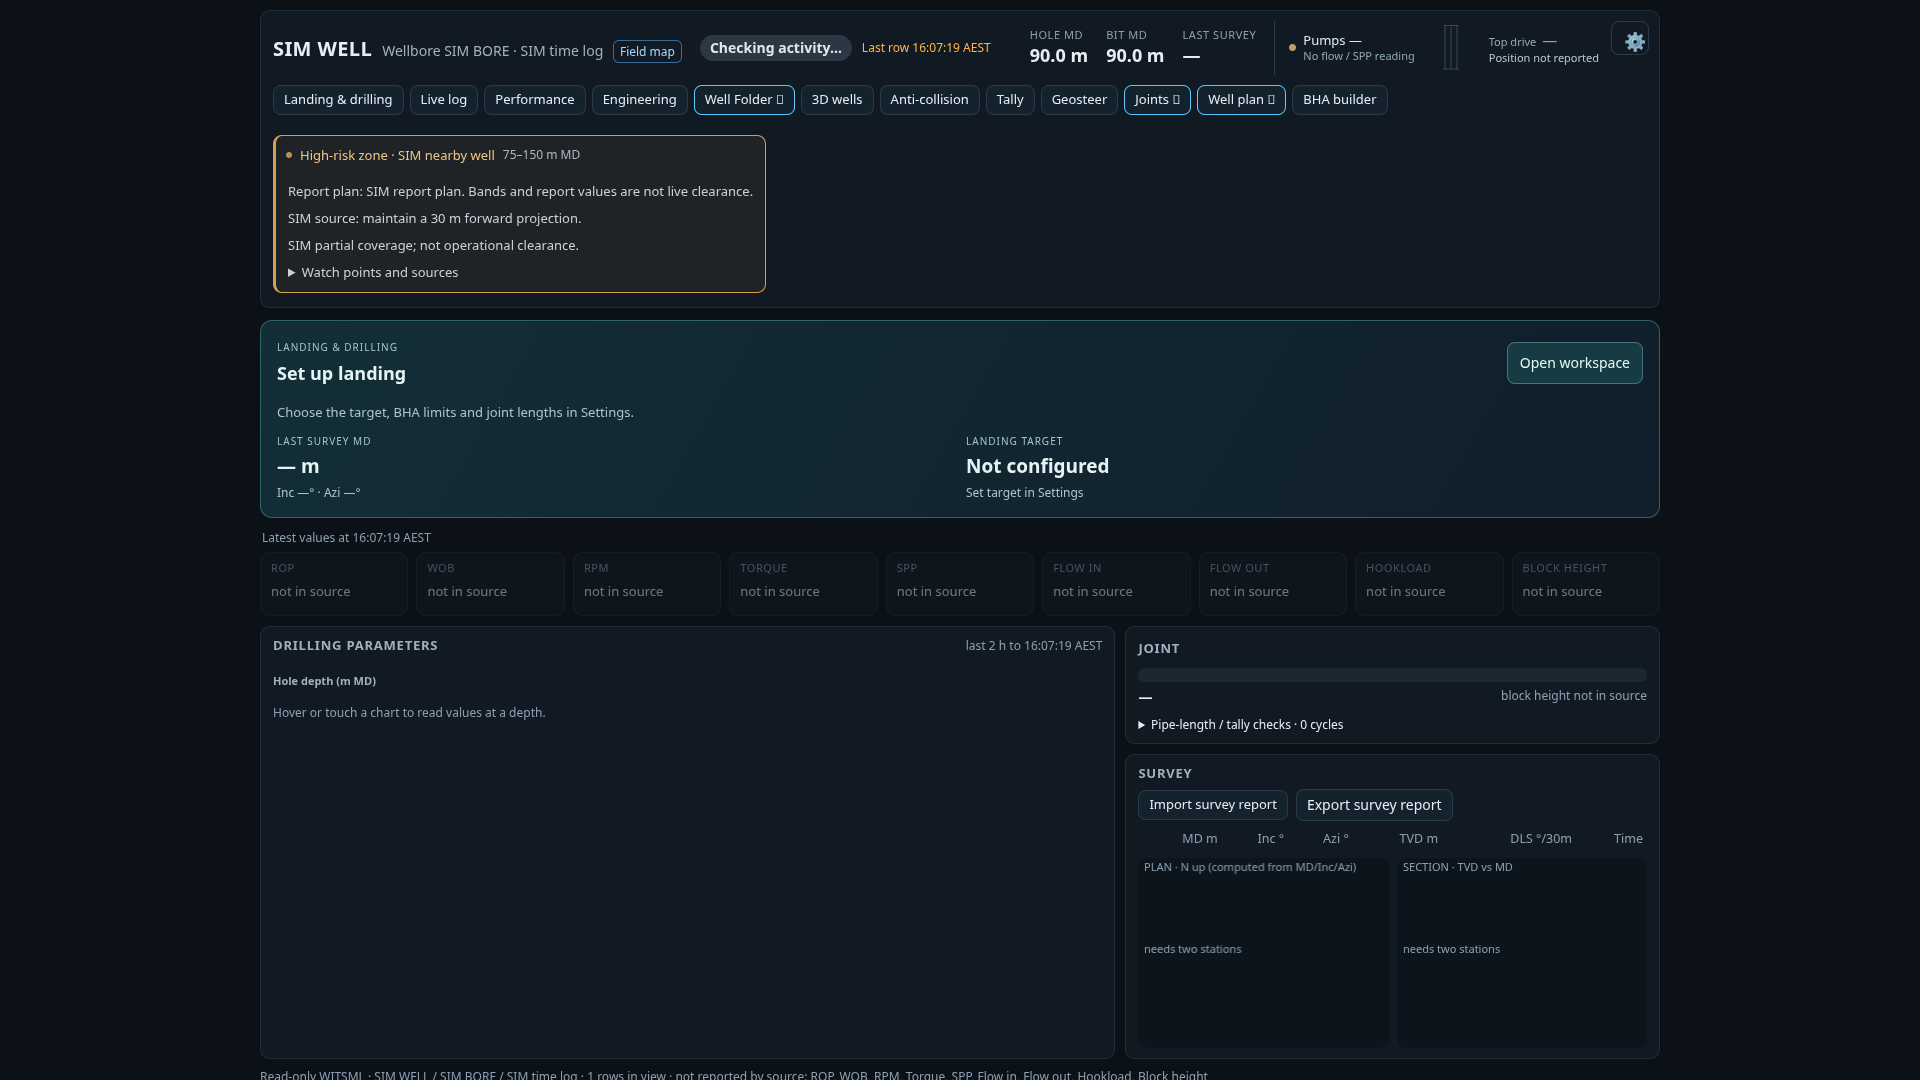
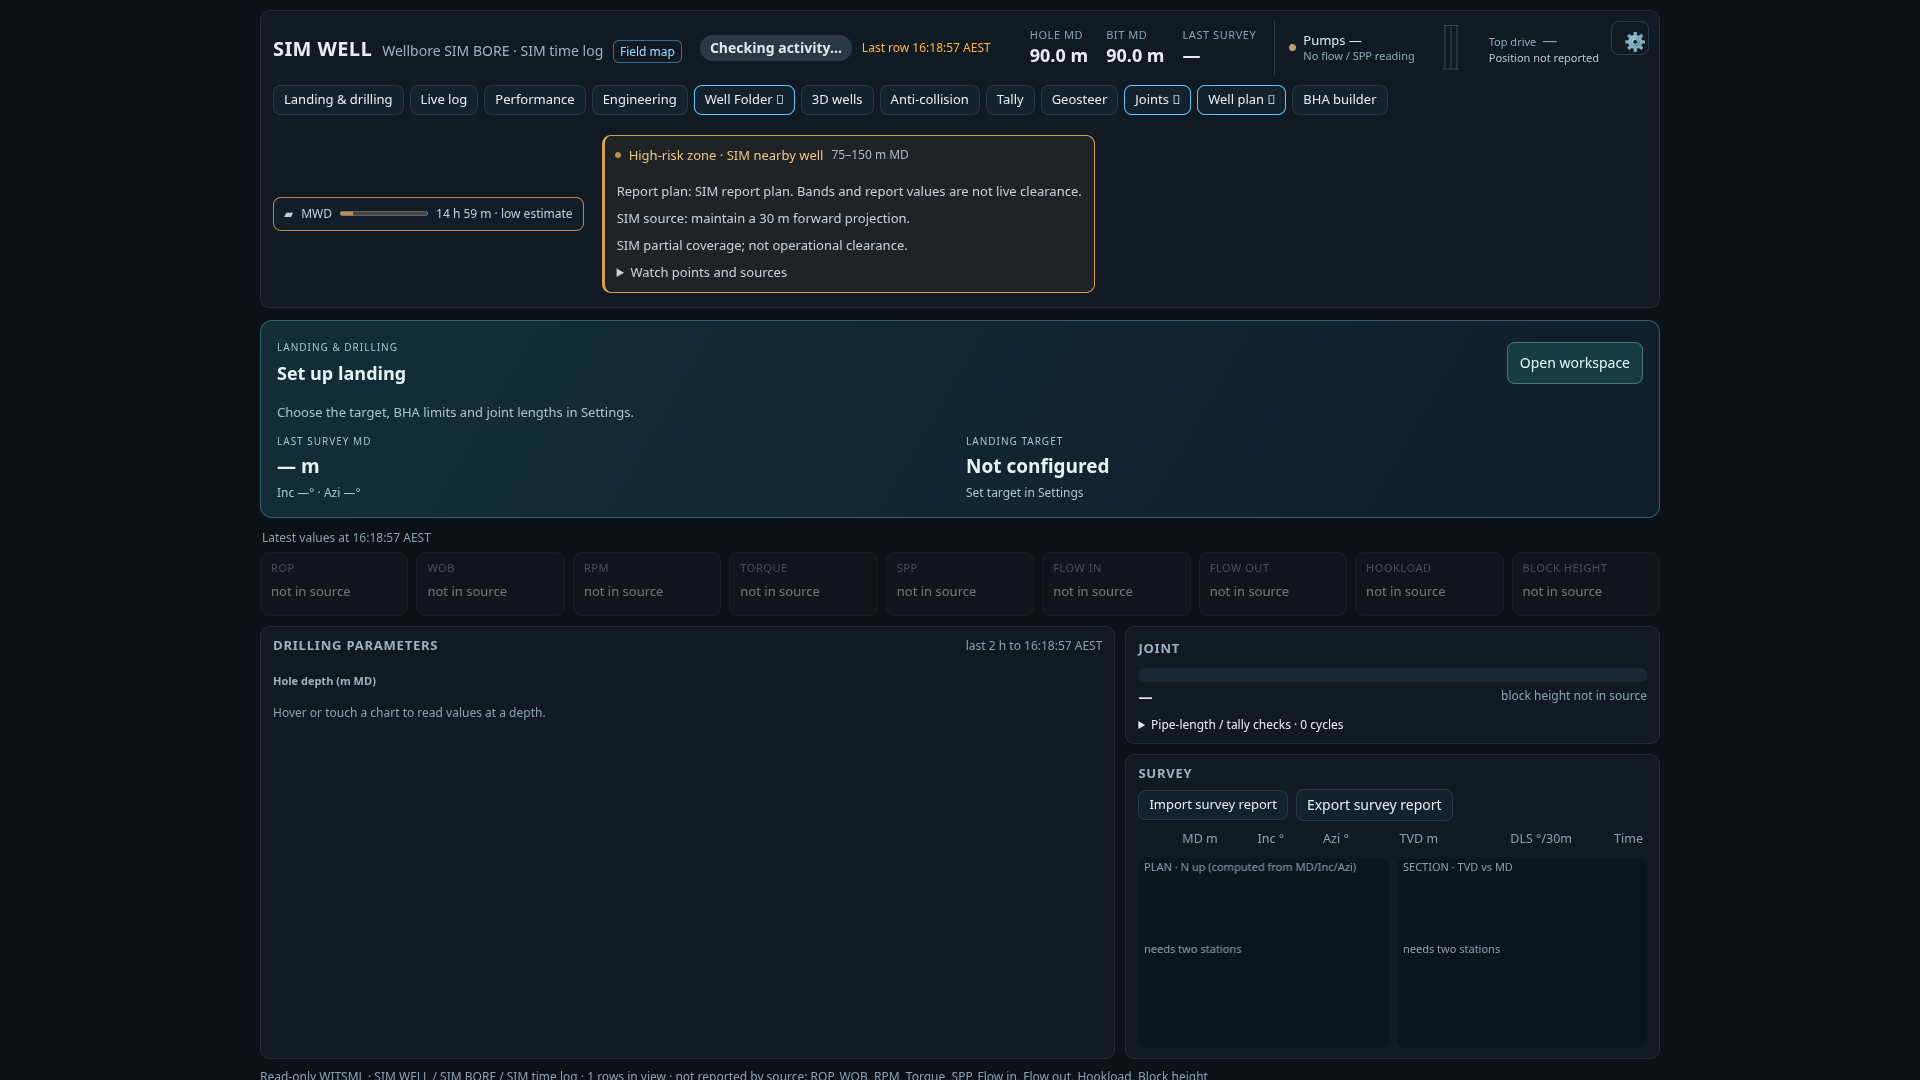
Show a persistent MWD battery budget bar in Operations

Changed region(s): [[0.125, 0.1222, 0.5625, 0.275]]

diff --git a/drilling/opsnow_watch_zones.css b/drilling/opsnow_watch_zones.css
@@ -1,1 +1,3 @@
 .on-watch-zones{margin:10px 0 4px;border:1px solid #bd903b55;border-left:3px solid #b9934e;border-radius:9px;background:#b9934e09;color:#c7d2dc;font-size:13px;line-height:1.45}.on-watch-zones>summary{display:flex;align-items:center;gap:8px;padding:10px;cursor:pointer;list-style:none;flex-wrap:wrap}.on-watch-zones>summary::-webkit-details-marker{display:none}.on-watch-dot{width:6px;height:6px;flex:0 0 6px;border-radius:50%;background:#b9934e}.on-watch-zones [data-watch-band]{color:#abb8c4;font-size:12px}.on-watch-zones [data-watch-detail]{padding:0 12px 10px;max-height:40vh;overflow:auto}.on-watch-zones p{margin:8px 0}.on-watch-zones a{color:#86bddd}.on-watch-zones[data-state=inside]{border-color:#d9a14d;background:#d9a14d12}.on-watch-zones[data-state=inside] [data-watch-title]{color:#edc584}.on-watch-zones[data-state=unavailable],.on-watch-zones[data-state=unverified]{border-color:#8994a244}.on-watch-zones summary:focus-visible{outline:2px solid #86bddd;outline-offset:2px}.on-risk-tools{display:flex;gap:8px;align-items:center;flex-wrap:wrap;font-size:12px;margin:6px 0}.on-risk-tools label{display:flex;gap:5px;align-items:center}.on-risk-tools button{background:#18242f;color:#ccd8e0;border:1px solid #465562;border-radius:6px;padding:7px;cursor:pointer}.on-risk-tools p{margin:3px;color:#99aab8}@media(max-width:480px){.on-watch-zones>summary{gap:6px}.on-watch-zones [data-watch-band]{width:100%;margin-left:12px}}@media(prefers-reduced-motion:reduce){.on-watch-zones *{animation:none!important;transition:none!important}}
+
+.on-mwd-battery{margin:9px 0 3px;color:#bfced9;border:1px solid #64829744;border-radius:8px;font-size:12px;background:#14233155}.on-mwd-battery>summary{display:flex;align-items:center;gap:8px;list-style:none;padding:8px 10px;cursor:pointer}.on-mwd-battery summary::-webkit-details-marker{display:none}.on-mwd-battery progress{width:88px;max-width:25vw;height:9px;accent-color:#779caf}.on-mwd-battery[data-state=low],.on-mwd-battery[data-state=exhausted]{border-color:#bb844c}.on-mwd-battery[data-state=low] progress,.on-mwd-battery[data-state=exhausted] progress{accent-color:#c58e50}.on-mwd-battery[data-state=unavailable]{color:#9fabb5}.on-battery-detail{padding:0 10px 9px;max-height:35vh;overflow:auto;line-height:1.45}.on-battery-detail label{display:flex;align-items:center;gap:8px;flex-wrap:wrap}.on-battery-detail select{max-width:100%;background:#182b39;color:#cfdee8;border:1px solid #537086;border-radius:5px;padding:6px}.on-battery-detail p{margin:7px 0}.on-mwd-battery summary:focus-visible{outline:2px solid #86bddd;outline-offset:2px}

diff --git a/docs/ops-watch-zones.md b/docs/ops-watch-zones.md
@@ -33,3 +33,13 @@ Remaining hours are an estimate: 100 × (1 − baseline capacity used / 100) −
 Well designs → MWD batteries shows available private pre-run records and an illustrative 3D pack/cutaway. The setup percentage means capacity **used**. Pre-run equivalent remaining hours are distinct from current remaining hours. Current usage and actual installation remain unknown until supported. Manufacturing date is not batch identity. A source lifetime active-time counter is not used as the powered runtime on this well. Source imagery and real battery details stay out of Git.
 
 The battery update passed 196 unit tests locally. Desktop/phone checks cover setup battery selection, schematic cutaway, current-usage unknowns, editable serial/usage fields, a saved assembly and the authenticated Operations-context bridge. The new source metadata is additive; no database migration, mail, billing or permission change is required.
+
+## Operations battery bar
+
+Operations shows a small MWD battery bar below the well shortcuts. It shows the selected pack's estimated budget and changes to amber for a low or exhausted budget. Open it to choose another pack, see the tracking start and read the assumption. Current measured battery life remains unknown.
+
+This is an explicit, user-enabled assumed-powered budget. Its start is recorded once on the server and frozen to each source baseline/hash. Each elapsed hour uses one budget hour, assuming that pack stays powered. Closing or refreshing the page does not reset the start. The budgets are separate, not additive. Actual installation, powered usage before tracking and duty cycle are not inferred. This estimate must not enter the measured telemetry, steering inputs or scorecard as an observed battery outcome.
+
+The bar uses a fresh server budget plus a bounded monotonic display timer. An expired private context freezes/removes the display; a new authenticated read recalculates from the saved start. Historical views, sign-out, different wells/bores/tenants, changed baselines and invalid clocks cannot show the previous budget. A stopped tracking policy freezes the estimate. Source tracking is read-only from this page; selecting a pack does not confirm installation or reset its budget.
+
+Synthetic tests cover drawdown, separate packs, low/exhausted states, persisted starts, paused tracking, baseline changes, stale/future clocks and scope denial. Desktop/phone screenshots include the compact bar and the expanded battery details. No extra connector, live control, email, billing change or schema migration was added.
